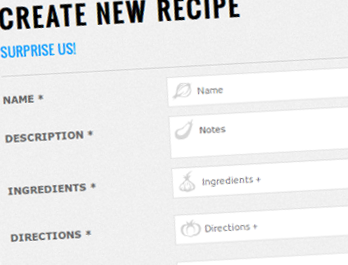
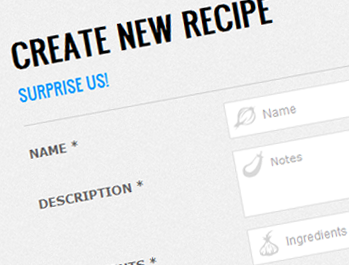
Last recipes in home

diff --git a/static/css/style.css b/static/css/style.css
@@ -2308,7 +2308,7 @@ textarea {
 	color: #ffffff;
 	padding: 10px 20px;
 	text-align: center;
-	font-weight: bold;
+	/*font-weight: bold;*/
 	font-size: 11px;
 
 	-webkit-border-radius: 5px;
@@ -2669,7 +2669,6 @@ body.home{background:url(../images/food.jpg) top center no-repeat;}
 .home .action p{
 	color:#fff;
 	font-size:14px;
-	font-weight: bold;
 	font-family: Oswald;
 	text-transform: uppercase;
 	line-height:1.7em;
@@ -2688,10 +2687,10 @@ body.home{background:url(../images/food.jpg) top center no-repeat;}
 }
 .step1, .step2, .step-last{
     width: 300px;
-    background-position: -625px;
+    background-position: -625px 0;
 }
 .step-last{
-	background-position: -600px;
+	background-position: -600px 0;
 }
 
 .steps-start{
@@ -2704,7 +2703,7 @@ body.home{background:url(../images/food.jpg) top center no-repeat;}
     background-image: url(../images/steps.png);
     height: 75px;
     width: 20px;
-	background-position: -930px;   
+	background-position: -930px 0;   
 	float:right;
 }
 .step .number{
@@ -2715,10 +2714,9 @@ body.home{background:url(../images/food.jpg) top center no-repeat;}
 .step .title .inner
 {
 	font-size:40px;
-	font-weight:bold;
+	/*font-weight:bold;*/
 	font-family:Oswald;
 	color:#616161;
-	font-weight:bold;
 	text-shadow:1px 1px 0 #FFFFFF;
 	float:left;
 }

diff --git a/templates/landing.html b/templates/landing.html
@@ -40,12 +40,17 @@
 			<div class="slider-wrapper theme-orman">
 				<!--<div class="ribbon"></div>-->
 				<div class="wrapper-slide">
-					<img src="/static/images/slides/slide1.png" title="#wrapper-slide-caption-0">
-					<img src="http://www.washingtonian.com/block_dbimages/22678/Picture%201.png" alt="">
+					{% for koch in last_kochs%}
+						{% if koch.photo %}
+				       		<img src="/image/?img_id={{koch.key}}" title="#wrapper-{{koch.key}}"/>
+				        {% else %}
+				        	<img src="/static/images/default.png" title="#wrapper-{{koch.key}}" />
+				    	{% endif %}
+					{% endfor %}
 				</div><!-- / -->
-				<div id="wrapper-slide-caption-0" class="nivo-html-caption">
-					<p>Esat ees el caption</p>
-				</div><!-- /wrapper-slide-caption-0 -->
+				{% for koch in last_kochs%}
+					<div id="wrapper-{{koch.key}}" class="nivo-html-caption"><p>{{koch.title|title}}</p></div>
+				{% endfor %}
 			</div>
 		</div><!-- / -->       
 	</div>

diff --git a/handlers/site.py b/handlers/site.py
@@ -2,7 +2,7 @@ from google.appengine.ext import webapp
 from gaesessions import get_current_session
 from google.appengine.ext.webapp import util, template
 from libs import facebook
-from models import User
+from models import User, Koch
 
 
 class Home(webapp.RequestHandler):
@@ -11,4 +11,7 @@ class Home(webapp.RequestHandler):
 		is_home = True
 		if user:
 			self.redirect('/explore')
+		
+		last_kochs = Koch.all().order('-created').fetch(5)
+			
 		self.response.out.write(template.render('templates/landing.html', locals()))

diff --git a/handlers/koch.py b/handlers/koch.py
@@ -33,7 +33,7 @@ class Create(webapp.RequestHandler):
 
 		key 		= self.request.get('edit')
 		tags        = [a.lower() for a in self.request.get_all('tags[]')]
-		user        = session['user']
+		user        = user
 		ingredients = self.request.get_all('ingredients[]')
 		directions  = self.request.get_all('directions[]')
 		tags        = tags
